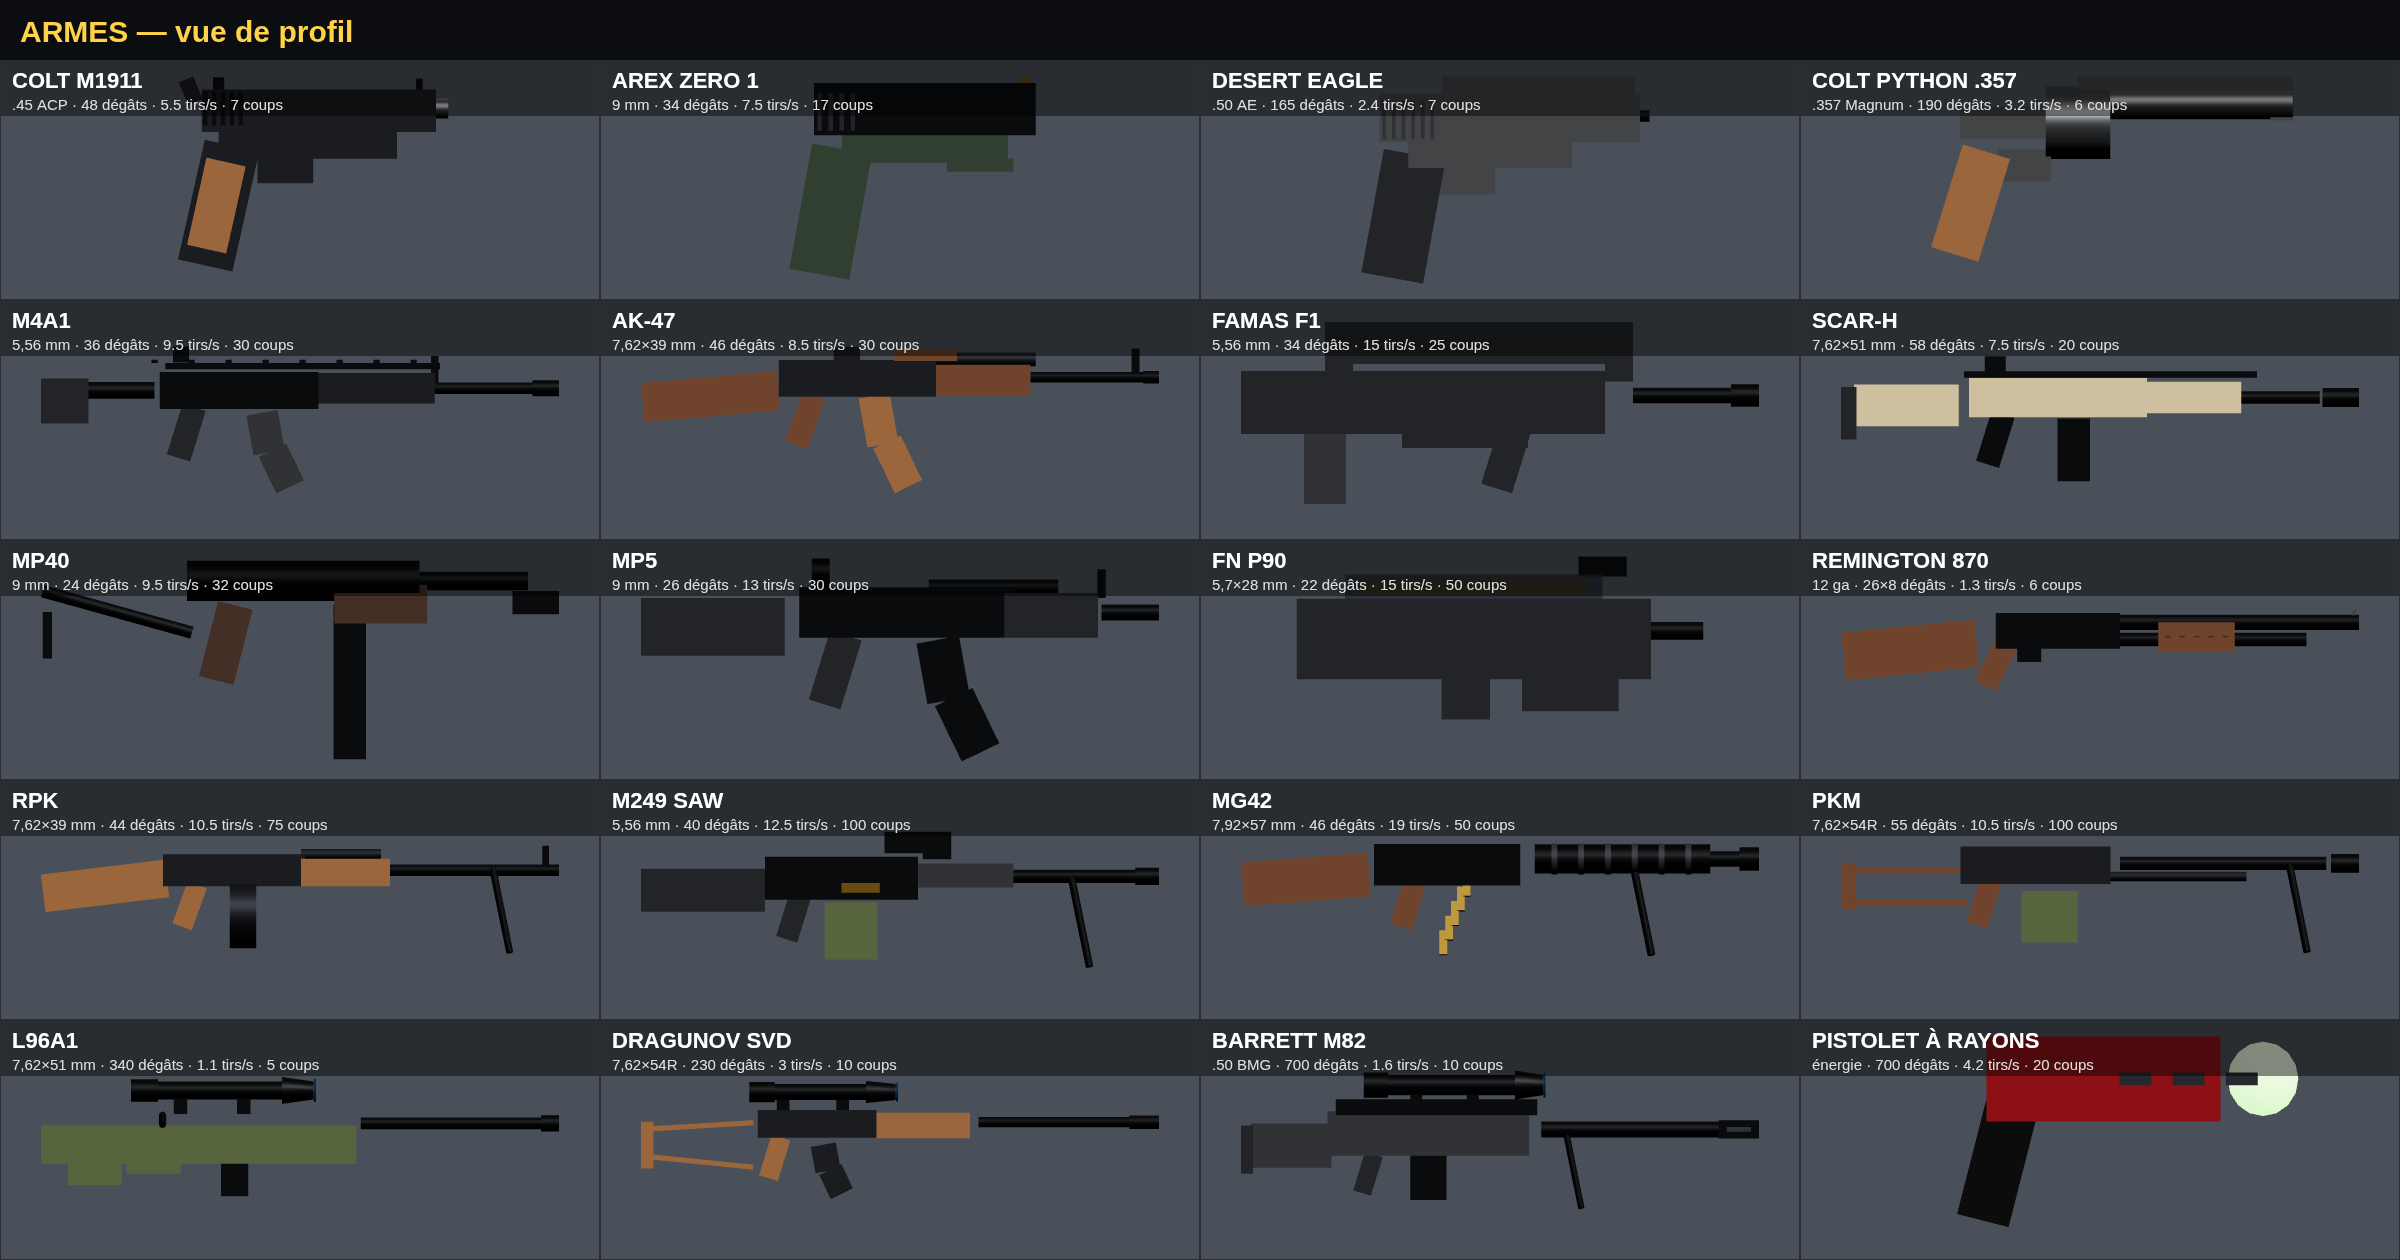
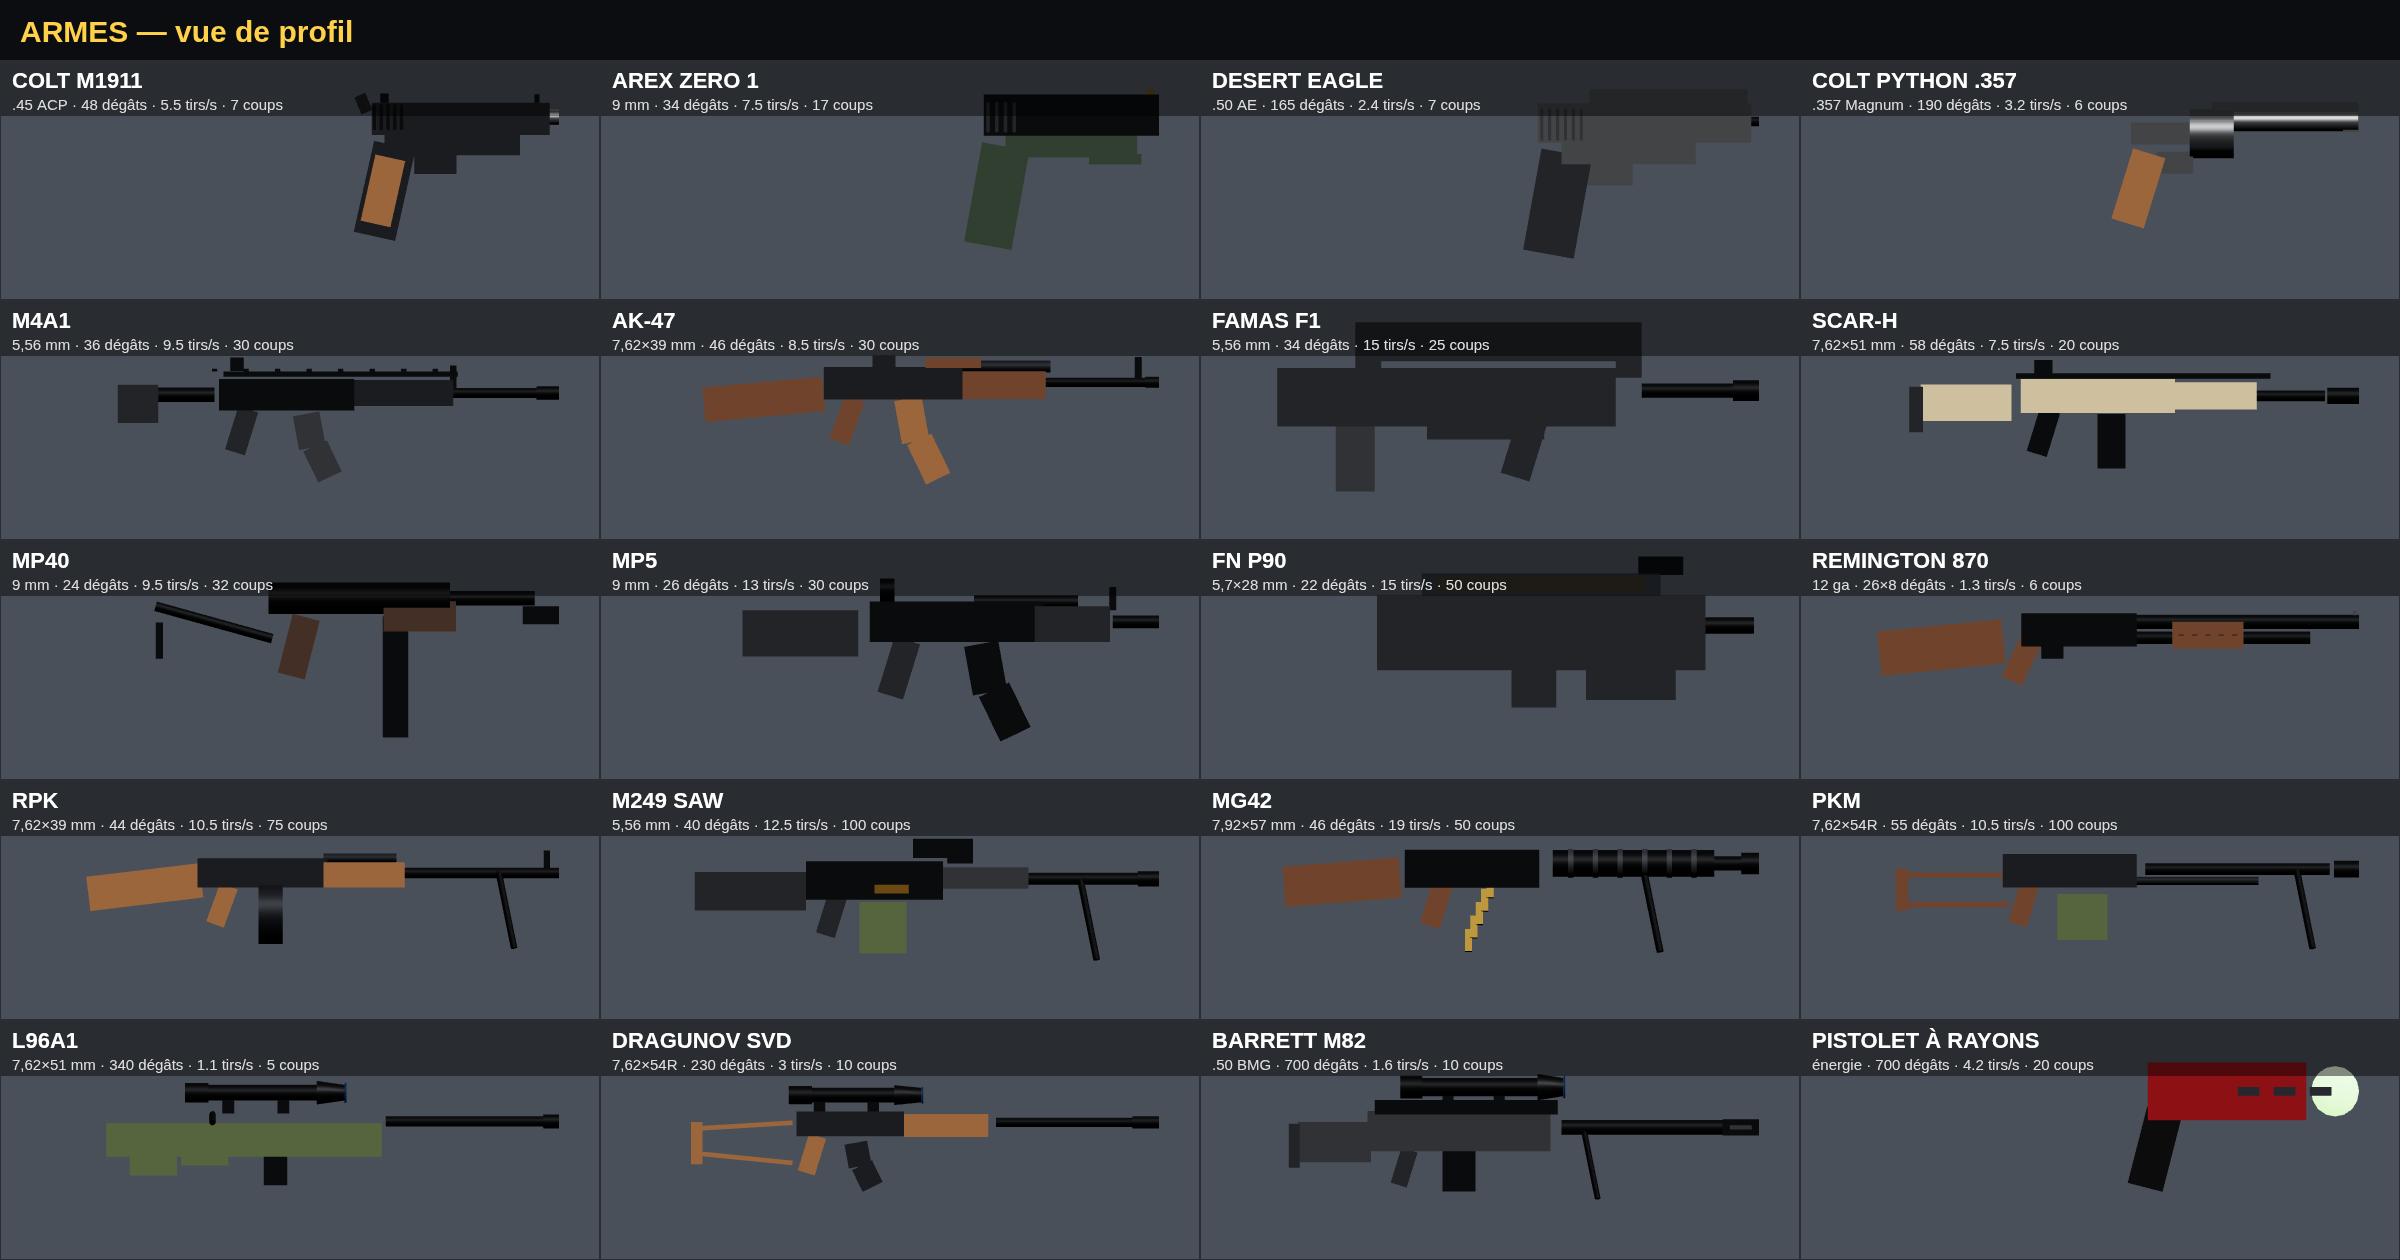
Regenerate docs (v0.13.0)

diff --git a/docs/REFERENCE.md b/docs/REFERENCE.md
@@ -1,6 +1,6 @@
 # Zombie Survival — fiche de référence
 
-Version du jeu : **v0.10.0 · 1621a18 · 2026-10-04** (package 0.10.0). Générée automatiquement par `node tools/make-docs.mjs` à partir de `src/config.js` et du jeu.
+Version du jeu : **v0.10.1 · 6794165 · 2026-10-05** (package 0.13.0). Générée automatiquement par `node tools/make-docs.mjs` à partir de `src/config.js` et du jeu.
 Carte annotée : [carte.png](carte.png). Armes de profil : [armes.png](armes.png). Les mêmes tableaux en tableur : dossier [csv/](csv/).
 
 Pour demander une modification, citez la ligne (ex. « Mitrailleuse RPK : chargeur 100 », « Mastodonte à 3000 pts », « porte P3 à 500 pts », « mettre la boîte mystère dans la zone Temple-Neuf »).
@@ -230,47 +230,47 @@ Prix des portes : 750 pts pour une zone voisine du départ, +250 par zone plus l
 
 | N° sur la carte | Type | Nom | Zone | Prix (pts) | x (m, vers l'est) | z (m, vers le sud) |
 |---|---|---|---|---|---|---|
-| 1 | Borne de munitions | Borne de munitions | Marché-Neuf |  | -9 | -33 |
-| 2 | Arme au mur | COLT M1911 | Marché-Neuf | 400 | -29 | -30 |
-| 3 | Arme au mur | REMINGTON 870 | Marché-Neuf | 750 | -14 | -48 |
-| 4 | Arme au mur | MP40 | Marché-Neuf | 1000 | 0 | -55 |
-| 5 | Atout | RÉANIMATION RAPIDE | Marché-Neuf | 1500 | -1 | -41 |
-| 6 | BOÎTE MYSTÈRE (emplacement possible) | BOÎTE MYSTÈRE (emplacement possible) | Marché-Neuf | 950 | -23 | -37 |
-| 7 | Borne de munitions | Borne de munitions | Temple-Neuf |  | -56 | -101 |
-| 8 | Arme au mur | AREX ZERO 1 | Temple-Neuf | 700 | -49 | -103 |
-| 9 | Arme au mur | MP5 | Temple-Neuf | 1200 | -51 | -114 |
-| 10 | Atout | STAMIN-UP | Temple-Neuf | 2000 | -31 | -109 |
-| 11 | BOÎTE MYSTÈRE (emplacement possible) | BOÎTE MYSTÈRE (emplacement possible) | Temple-Neuf | 950 | -19 | -91 |
-| 12 | Arme au mur | FAMAS F1 | Rue des Orfèvres | 1300 | 22 | -67 |
-| 13 | Atout | SPEED COLA | Rue des Orfèvres | 3000 | 13 | -83 |
-| 14 | BOÎTE MYSTÈRE (emplacement possible) | BOÎTE MYSTÈRE (emplacement possible) | Rue des Orfèvres | 950 | 17 | -12 |
-| 15 | Borne de munitions | Borne de munitions | Rue du Dôme |  | 80 | -130 |
-| 16 | Arme au mur | L96A1 | Rue du Dôme | 1750 | 123 | -146 |
-| 17 | Arme au mur | DRAGUNOV SVD | Rue du Dôme | 2000 | 81 | -123 |
-| 18 | BOÎTE MYSTÈRE (emplacement possible) | BOÎTE MYSTÈRE (emplacement possible) | Rue du Dôme | 950 | 73 | -123 |
-| 19 | Borne de munitions | Borne de munitions | Grandes Arcades |  | -88 | -33 |
-| 20 | Arme au mur | AK-47 | Grandes Arcades | 1600 | -85 | -51 |
-| 21 | Arme au mur | FN P90 | Grandes Arcades | 1800 | -116 | -73 |
-| 22 | Atout | MULE KICK | Grandes Arcades | 4000 | -108 | -59 |
-| 23 | BOÎTE MYSTÈRE (emplacement possible) | BOÎTE MYSTÈRE (emplacement possible) | Grandes Arcades | 950 | -91 | -38 |
-| 24 | Borne de munitions | Borne de munitions | Place Kléber |  | -205 | -169 |
-| 25 | Arme au mur | RPK | Place Kléber | 2500 | -211 | -143 |
-| 26 | Arme au mur | M249 SAW | Place Kléber | 3000 | -171 | -131 |
-| 27 | Atout | MASTODONTE | Place Kléber | 2500 | -216 | -138 |
-| 28 | BOÎTE MYSTÈRE (emplacement possible) | BOÎTE MYSTÈRE (emplacement possible) | Place Kléber | 950 | -216 | -132 |
-| 29 | Borne de munitions | Borne de munitions | Place Gutenberg |  | -11 | 61 |
-| 30 | Arme au mur | SCAR-H | Place Gutenberg | 2200 | 6 | 105 |
-| 31 | Arme au mur | PKM | Place Gutenberg | 3200 | -11 | 105 |
-| 32 | Atout | DOUBLE TAP | Place Gutenberg | 2000 | -1 | 103 |
-| 33 | BOÎTE MYSTÈRE (emplacement possible) | BOÎTE MYSTÈRE (emplacement possible) | Place Gutenberg | 950 | 8 | 91 |
-| 34 | Borne de munitions | Borne de munitions | Cathédrale |  | 112 | 42 |
-| 35 | Arme au mur | DESERT EAGLE | Cathédrale | 1500 | 112 | 48 |
-| 36 | Arme au mur | M4A1 | Cathédrale | 1200 | 121 | 57 |
-| 37 | BOÎTE MYSTÈRE (emplacement possible) | BOÎTE MYSTÈRE (emplacement possible) | Cathédrale | 950 | 119 | 62 |
-| 38 | Borne de munitions | Borne de munitions | Intérieur de la Cathédrale |  | 203 | 58 |
-| 39 | PACK-A-PUNCH | PACK-A-PUNCH | Intérieur de la Cathédrale | 5000 | 217 | 18 |
-| 40 | HORLOGE ASTRONOMIQUE | HORLOGE ASTRONOMIQUE | Intérieur de la Cathédrale | 0 | 223 | 44 |
-| 41 | BOÎTE MYSTÈRE (emplacement possible) | BOÎTE MYSTÈRE (emplacement possible) | Intérieur de la Cathédrale | 950 | 200 | 46 |
+| 1 | Borne de munitions | Borne de munitions | Marché-Neuf |  | -10 | -35 |
+| 2 | Arme au mur | COLT M1911 | Marché-Neuf | 400 | -20 | -32 |
+| 3 | Arme au mur | REMINGTON 870 | Marché-Neuf | 750 | -11 | -18 |
+| 4 | Arme au mur | MP40 | Marché-Neuf | 1000 | -4 | -45 |
+| 5 | Atout | RÉANIMATION RAPIDE | Marché-Neuf | 1500 | 1 | -59 |
+| 6 | BOÎTE MYSTÈRE (emplacement possible) | BOÎTE MYSTÈRE (emplacement possible) | Marché-Neuf | 950 | -17 | -37 |
+| 7 | Borne de munitions | Borne de munitions | Temple-Neuf |  | -41 | -92 |
+| 8 | Arme au mur | AREX ZERO 1 | Temple-Neuf | 700 | -38 | -80 |
+| 9 | Arme au mur | MP5 | Temple-Neuf | 1200 | -29 | -100 |
+| 10 | Atout | STAMIN-UP | Temple-Neuf | 2000 | -34 | -107 |
+| 11 | BOÎTE MYSTÈRE (emplacement possible) | BOÎTE MYSTÈRE (emplacement possible) | Temple-Neuf | 950 | -46 | -110 |
+| 12 | Arme au mur | FAMAS F1 | Rue des Orfèvres | 1300 | 14 | -74 |
+| 13 | Atout | SPEED COLA | Rue des Orfèvres | 3000 | 52 | -2 |
+| 14 | BOÎTE MYSTÈRE (emplacement possible) | BOÎTE MYSTÈRE (emplacement possible) | Rue des Orfèvres | 950 | 19 | -69 |
+| 15 | Borne de munitions | Borne de munitions | Rue du Dôme |  | 108 | -142 |
+| 16 | Arme au mur | L96A1 | Rue du Dôme | 1750 | 73 | -126 |
+| 17 | Arme au mur | DRAGUNOV SVD | Rue du Dôme | 2000 | 84 | -130 |
+| 18 | BOÎTE MYSTÈRE (emplacement possible) | BOÎTE MYSTÈRE (emplacement possible) | Rue du Dôme | 950 | 88 | -117 |
+| 19 | Borne de munitions | Borne de munitions | Grandes Arcades |  | -94 | -44 |
+| 20 | Arme au mur | AK-47 | Grandes Arcades | 1600 | -105 | -30 |
+| 21 | Arme au mur | FN P90 | Grandes Arcades | 1800 | -104 | -65 |
+| 22 | Atout | MULE KICK | Grandes Arcades | 4000 | -108 | -58 |
+| 23 | BOÎTE MYSTÈRE (emplacement possible) | BOÎTE MYSTÈRE (emplacement possible) | Grandes Arcades | 950 | -88 | -43 |
+| 24 | Borne de munitions | Borne de munitions | Place Kléber |  | -173 | -134 |
+| 25 | Arme au mur | RPK | Place Kléber | 2500 | -207 | -156 |
+| 26 | Arme au mur | M249 SAW | Place Kléber | 3000 | -195 | -139 |
+| 27 | Atout | MASTODONTE | Place Kléber | 2500 | -169 | -149 |
+| 28 | BOÎTE MYSTÈRE (emplacement possible) | BOÎTE MYSTÈRE (emplacement possible) | Place Kléber | 950 | -202 | -116 |
+| 29 | Borne de munitions | Borne de munitions | Place Gutenberg |  | -2 | 114 |
+| 30 | Arme au mur | SCAR-H | Place Gutenberg | 2200 | -48 | 84 |
+| 31 | Arme au mur | PKM | Place Gutenberg | 3200 | 4 | 77 |
+| 32 | Atout | DOUBLE TAP | Place Gutenberg | 2000 | -24 | 94 |
+| 33 | BOÎTE MYSTÈRE (emplacement possible) | BOÎTE MYSTÈRE (emplacement possible) | Place Gutenberg | 950 | -10 | 110 |
+| 34 | Borne de munitions | Borne de munitions | Cathédrale |  | 112 | 48 |
+| 35 | Arme au mur | DESERT EAGLE | Cathédrale | 1500 | 109 | 53 |
+| 36 | Arme au mur | M4A1 | Cathédrale | 1200 | 121 | 35 |
+| 37 | BOÎTE MYSTÈRE (emplacement possible) | BOÎTE MYSTÈRE (emplacement possible) | Cathédrale | 950 | 119 | 55 |
+| 38 | Borne de munitions | Borne de munitions | Intérieur de la Cathédrale |  | 205 | 29 |
+| 39 | PACK-A-PUNCH | PACK-A-PUNCH | Intérieur de la Cathédrale | 5000 | 223 | 14 |
+| 40 | HORLOGE ASTRONOMIQUE | HORLOGE ASTRONOMIQUE | Intérieur de la Cathédrale | 0 | 228 | 35 |
+| 41 | BOÎTE MYSTÈRE (emplacement possible) | BOÎTE MYSTÈRE (emplacement possible) | Intérieur de la Cathédrale | 950 | 185 | 10 |
 
 ## Commandes
 
